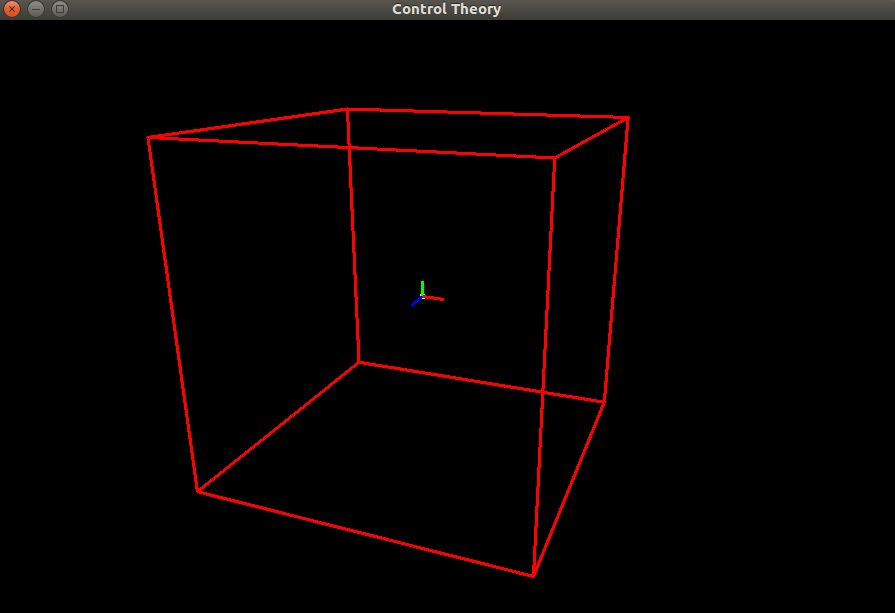
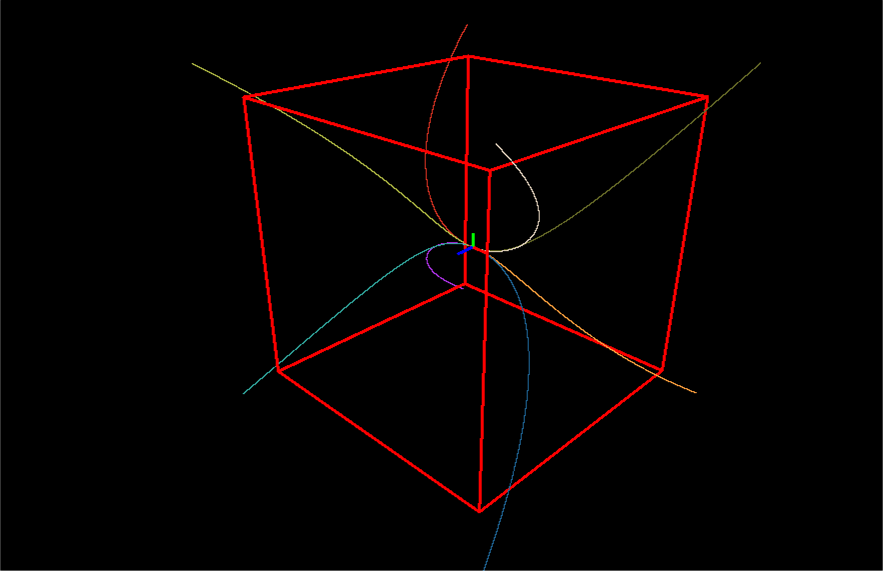
clean leak memory

diff --git a/include/controls/linear_continuous_system.hpp b/include/controls/linear_continuous_system.hpp
@@ -61,7 +61,7 @@ public:
  */
 
 // TODO: Why vector of pair? maybe list of pair?
-typedef vector<pair<Particle*, vector<Particle*>>> PARTICLE_TRAIL;
+typedef vector<pair<Particle*, list<Particle*>>> PARTICLE_TRAIL;
 typedef std::unique_lock<std::mutex> lock_t;
 
 class CLTIS {
@@ -79,15 +79,14 @@ public:
   {
     x_.reserve(x.size());
     for(size_t i=0; i<x.size(); ++i) {
-      vector<Particle*> initial_particles; 
-      initial_particles.reserve(0x10000);
+      list<Particle*> initial_particles; 
       initial_particles.push_back(new Particle(*x[i])); 
       x_.push_back(make_pair(x[i], initial_particles)); 
     } 
   }
 
  ~CLTIS() {
-    std::for_each(x_.begin(), x_.end(), [&](pair<Particle*, vector<Particle*>>& x_pair) {
+    std::for_each(x_.begin(), x_.end(), [&](pair<Particle*, list<Particle*>>& x_pair) {
       delete x_pair.first;
       std::for_each(x_pair.second.begin(), x_pair.second.end(), [&](Particle* p) {
         delete p;
@@ -97,7 +96,7 @@ public:
   }
 
   /* TODO: Interpolate if the points are far away */
-  void update_particles(Particle* parent, vector<Particle*>& particles) {
+  void update_particles(Particle* parent, list<Particle*>& particles) {
     const auto prevpos = particles.back()->x_;
     const auto currpos = parent->x_; 
 
@@ -106,25 +105,29 @@ public:
 
   bool step() {
     // Has reached the origin, stop updating
-    size_t k=0;
-    for(size_t i=0; i<x_.size(); ++i, ++k) {
-      if (x_[i].first->x_.norm() > 1e-3) {
-        break;
-      }
-    }
-    if (k == x_.size()) {
-      stop_exec_ = true;
-      return false;
-    }
+    {
+      lock_t lock(x_mutex_); 
 
-    t_ += controls::dt;
-    Matrix3d A_exp = (A_*t_).exp();
-    vel_ = A_*x_.at(0).first->x_;
-    for(size_t i=0; i<x_.size(); ++i) {
-      x_.at(i).first->x_ = A_exp * x_.at(i).first->x_;
-      update_particles(x_.at(i).first, x_.at(i).second);
+      size_t k=0;
+      for(size_t i=0; i<x_.size(); ++i, ++k) {
+        if (x_[i].first->x_.norm() > 1e-3) {
+          break;
+        }
+      }
+      if (k == x_.size()) {
+        stop_exec_ = true;
+        return false;
+      }
+
+      t_ += controls::dt;
+      Matrix3d A_exp = (A_*t_).exp();
+      vel_ = A_*x_.at(0).first->x_;
+      for(size_t i=0; i<x_.size(); ++i) {
+        x_.at(i).first->x_ = A_exp * x_.at(i).first->x_;
+        update_particles(x_.at(i).first, x_.at(i).second);
+      }
+      return true;
     }
-    return true;
   }
 
   void summary() {
@@ -135,7 +138,7 @@ public:
   inline Matrix3d       A() { return A_; }
   inline double         t() { return t_; }
   inline PARTICLE_TRAIL x()
-  { 
+  {
     {
       lock_t lock(x_mutex_); 
       return x_; 

diff --git a/test/test_linear.cpp b/test/test_linear.cpp
@@ -38,20 +38,20 @@ void TestSingleParticle(Eigen::Matrix3d& A) {
 
   delete linear_controller;
 }
-/*
+
 void TestSwarmOfParticles(Eigen::Matrix3d& A) {
 
   // initial position
-  vector<Particle> xs;
+  vector<Particle*> xs;
   xs.reserve(8);
-  xs.push_back(Particle(-12, -12, -12));
-  xs.push_back(Particle(-12, -12,  12));
-  xs.push_back(Particle(-12,  12, -12));
-  xs.push_back(Particle(-12,  12,  12));
-  xs.push_back(Particle( 12, -12, -12));
-  xs.push_back(Particle( 12, -12,  12));
-  xs.push_back(Particle( 12,  12, -12));
-  xs.push_back(Particle( 12,  12,  12));
+  xs.push_back(new Particle(-12, -12, -12));
+  xs.push_back(new Particle(-12, -12,  12));
+  xs.push_back(new Particle(-12,  12, -12));
+  xs.push_back(new Particle(-12,  12,  12));
+  xs.push_back(new Particle( 12, -12, -12));
+  xs.push_back(new Particle( 12, -12,  12));
+  xs.push_back(new Particle( 12,  12, -12));
+  xs.push_back(new Particle( 12,  12,  12));
 
   controls::CLTIS* linear_controller = new controls::CLTIS(A, xs);
   linear_controller->summary();
@@ -62,13 +62,16 @@ void TestSwarmOfParticles(Eigen::Matrix3d& A) {
 
   while(true) {
     auto t = linear_controller->t();
-    auto x = linear_controller->step();
-    std::this_thread::sleep_for(std::chrono::milliseconds(50));
+    if(!linear_controller->step()) {
+      cout << "Reached the final state!\n";
+      break; 
+    } 
+    std::this_thread::sleep_for(std::chrono::milliseconds(1));
   }
 
   delete linear_controller;
 }
-*/
+
 void TestParticlesOnXYPlane(Eigen::Matrix3d& A) {
 
   // initial position
@@ -101,7 +104,6 @@ void TestParticlesOnXYPlane(Eigen::Matrix3d& A) {
   }
 
   delete linear_controller;
-  cout << "here\n";
 }
 
 }
@@ -114,7 +116,8 @@ int main() {
   Eigen::Matrix3d A(3,3);
   A << -1, 0, 0, 0, -2, 0, 0, 0, -3;
 
-  ::TestParticlesOnXYPlane(A);
+  // ::TestParticlesOnXYPlane(A);
   // ::TestSingleParticle(A);
+  ::TestSwarmOfParticles(A);
 }
 

diff --git a/src/renderer.cpp b/src/renderer.cpp
@@ -56,7 +56,7 @@ void PointRenderer::render(PARTICLE_TRAIL pos) {
     render(parent->x_, parent->col_, 3.0f);
 
     // Render the tail of the parent
-    vector<Particle*> trail = pos[i].second;
+    list<Particle*> trail = pos[i].second;
     std::for_each(trail.begin(), trail.end(), [&](Particle* tail) {
       render(tail->x_, tail->col_, 1.0f);
     });

diff --git a/README.md b/README.md
@@ -8,7 +8,8 @@ Implementation of linear controls as part of **EE60011: Control Theory** course 
 - [x] 3D rendering using OpenGL
 - [x] Continuous/Discrete Linear Time Invariant Systems
 - [x] Particle rendering with different initial conditions
-- [ ] Rendering particles lifetime
+- [x] Rendering particles lifetime
+- [ ] Efficient rendering of particles [**use instance buffers**]
 - [ ] Continuous/Discrete Linear Time Variant Systems
 - [ ] Non-linear systems (pendulum/inverted pendulum as simple examples)
 - [ ] MIMO pole placement
